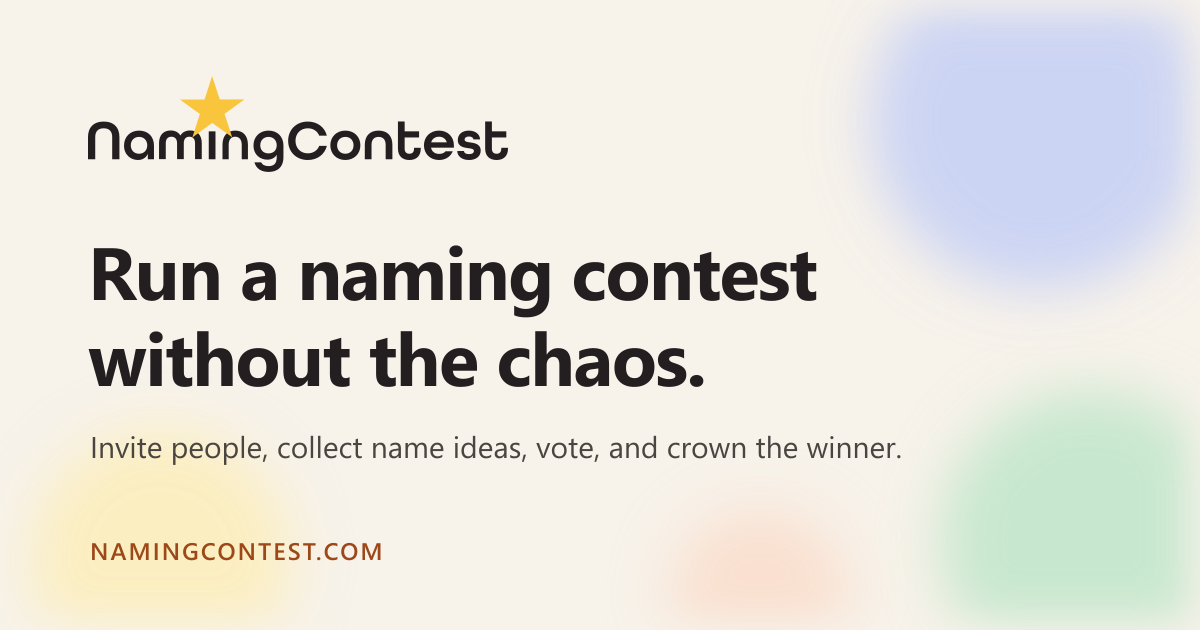
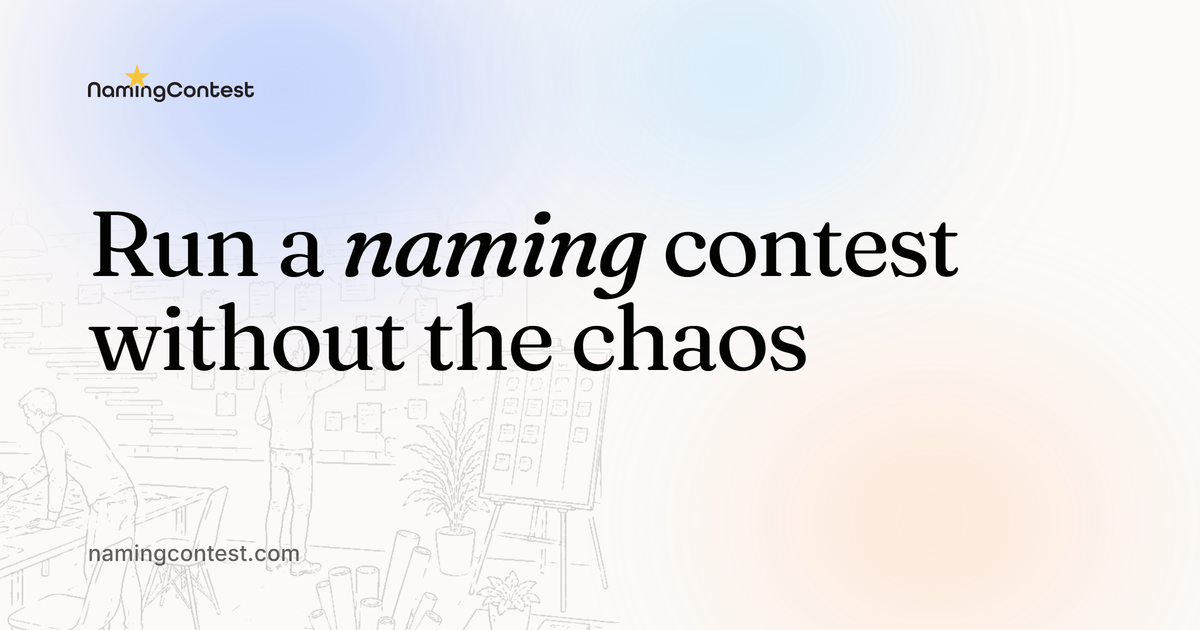
seo: share image is a mini version of the real hero; landing title/description use the real hero copy
og-image.png is rendered from the live landing page (site CSS, fonts,
aurora, decor, line art) by scratchpad/og/make-og-hero.cjs. Landing meta
now uses the hero heading and hero paragraph verbatim.

diff --git a/index.html b/index.html
@@ -9,23 +9,23 @@
     <!-- Static SEO defaults (landing page). src/components/PageMeta.jsx
          rewrites these per route once the app runs; keep the copy in sync
          with src/seo/pageMeta.js. -->
-    <title>NamingContest.com: Run a naming contest, crown the winner</title>
-    <meta name="description" content="Run a naming contest in minutes. Invite friends, family, or your team, collect name ideas, vote on favorites, and crown the winner. For babies, pets, teams, bands, companies, and products." />
+    <title>NamingContest.com: Run a naming contest without the chaos</title>
+    <meta name="description" content="Skip the group chats and Google Sheets. Create a naming contest in minutes: invite participants, collect suggestions, vote on favorites, and crown a winner—all in one place." />
     <meta name="robots" content="index, follow" />
     <link rel="canonical" href="https://namingcontest.com/" />
     <meta name="theme-color" content="#f7f2ea" />
     <meta property="og:site_name" content="NamingContest.com" />
     <meta property="og:type" content="website" />
-    <meta property="og:title" content="NamingContest.com: Run a naming contest, crown the winner" />
-    <meta property="og:description" content="Run a naming contest in minutes. Invite friends, family, or your team, collect name ideas, vote on favorites, and crown the winner. For babies, pets, teams, bands, companies, and products." />
+    <meta property="og:title" content="NamingContest.com: Run a naming contest without the chaos" />
+    <meta property="og:description" content="Skip the group chats and Google Sheets. Create a naming contest in minutes: invite participants, collect suggestions, vote on favorites, and crown a winner—all in one place." />
     <meta property="og:url" content="https://namingcontest.com/" />
     <meta property="og:image" content="https://namingcontest.com/og-image.png" />
     <meta property="og:image:width" content="1200" />
     <meta property="og:image:height" content="630" />
     <meta property="og:locale" content="en_US" />
     <meta name="twitter:card" content="summary_large_image" />
-    <meta name="twitter:title" content="NamingContest.com: Run a naming contest, crown the winner" />
-    <meta name="twitter:description" content="Run a naming contest in minutes. Invite friends, family, or your team, collect name ideas, vote on favorites, and crown the winner. For babies, pets, teams, bands, companies, and products." />
+    <meta name="twitter:title" content="NamingContest.com: Run a naming contest without the chaos" />
+    <meta name="twitter:description" content="Skip the group chats and Google Sheets. Create a naming contest in minutes: invite participants, collect suggestions, vote on favorites, and crown a winner—all in one place." />
     <meta name="twitter:image" content="https://namingcontest.com/og-image.png" />
     <meta name="google-site-verification" content="2xbEBCwYgjNWi4Y2xoE5Il7pfXe45b044T5wPTR-T7Y" />
     <script type="application/ld+json">

diff --git a/src/seo/pageMeta.js b/src/seo/pageMeta.js
@@ -28,8 +28,9 @@ const t = (page) => `${page} · ${SITE_NAME}`;
 // Exact-path entries. `index: true` = indexable + canonical.
 export const ROUTE_META = {
   '/': {
-    title: 'NamingContest.com: Run a naming contest, crown the winner',
-    description: DEFAULT_DESCRIPTION,
+    // Real hero heading + hero paragraph (client copy, kept verbatim).
+    title: 'NamingContest.com: Run a naming contest without the chaos',
+    description: 'Skip the group chats and Google Sheets. Create a naming contest in minutes: invite participants, collect suggestions, vote on favorites, and crown a winner—all in one place.',
     index: true,
     ogType: 'website',
   },
